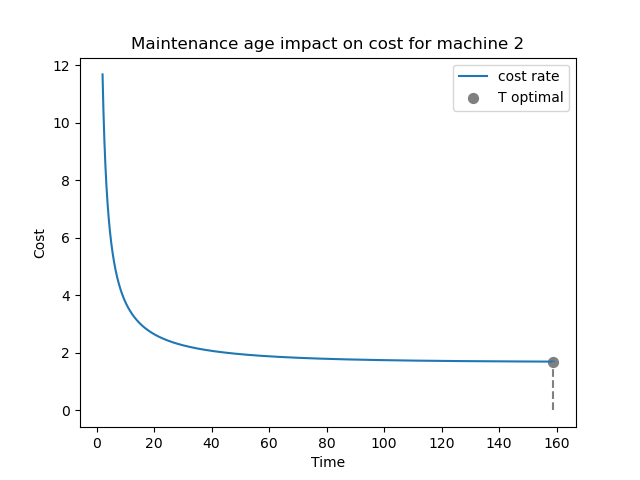
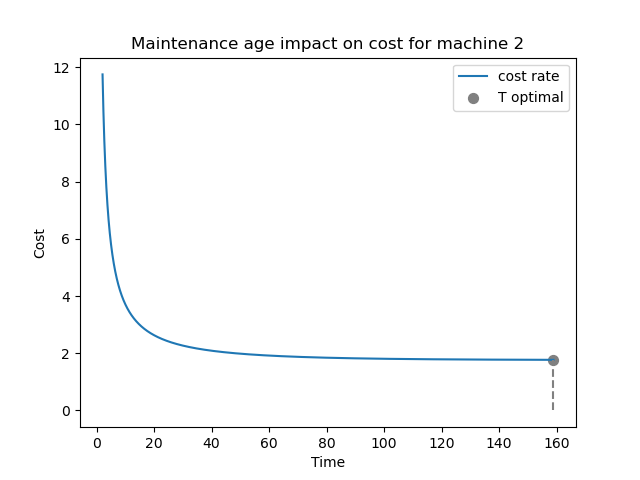
added comments and full simulation config

diff --git a/s4917340-Tool.py b/s4917340-Tool.py
@@ -6,7 +6,6 @@ import sys
 import seaborn as sns
 import matplotlib.pyplot as plt
 import itertools
-import time
 import warnings
 warnings.filterwarnings('ignore') 
 
@@ -17,16 +16,21 @@ plot_path = os.path.join(root_path, 'plot')
 # pd.set_option('display.max_rows', None)
 
 def data_preparation(machine_data : pd.DataFrame):
+    # create an cersored column based on the event column
     machine_data['Censored'] = machine_data['Event'].map({'failure': 'No', 'PM':'Yes'})
+    # Calculate the duration by time difference of a time compared with the time in the previous row
+    # fill the nan values (from the first row) with its time value 
     machine_data['Duration'] = machine_data['Time'].diff().fillna(machine_data['Time'].iloc[0])
 
     # foreach 0 (due to duplicated durations) replace with nan to fill the blank cells with the duration above it
     machine_data['Duration'] = machine_data['Duration'].replace(0, np.nan).ffill()
-    
+    # sort the durations from low to high 
     machine_data = machine_data.sort_values(by='Duration', ascending=True)
     
+    # sort duplicated durations such that PM events comes before the failure events
     # source: https://stackoverflow.com/questions/67845362/sort-pandas-df-subset-of-rows-within-a-group-by-specific-column 
     # source: https://sparkbyexamples.com/pandas/pandas-groupby-sort-within-groups/
+    # group the data by duration and sort each group of durations from high to low and reset the index. 
     machine_data = machine_data.groupby('Duration', group_keys=True).apply(lambda x: x.sort_values(by=['Event'], ascending=False))
     machine_data = machine_data.reset_index(drop=True)
 
@@ -36,11 +40,16 @@ def data_preparation(machine_data : pd.DataFrame):
 def update_probabilities(prepared_data : pd.DataFrame):
     for index, row in prepared_data.iterrows():
         if row['Event'] == 'PM':
+            # get the remaining rows underneath the current row
             remaining_rows = prepared_data.iloc[index+1:]
+            # get the number of remaining rows
             num_remaining_rows = len(remaining_rows)
+            # get the probability to distribute over the remaining rows
             prob_to_distribute = row['Probability']
+            # spread the probability to distribute evenly over the number of remaining rows 
             prob_to_distribute_per_row = prob_to_distribute / num_remaining_rows
             remaining_rows.loc[:, 'Probability'] += prob_to_distribute_per_row
+            # set the probability of the current row to zero
             prepared_data.at[index, 'Probability'] = 0
     
     return prepared_data
@@ -53,16 +62,27 @@ def create_kaplanmeier_data(prepared_data : pd.DataFrame):
     prepared_data = update_probabilities(prepared_data)
 
     # 3. Merge duplicated, failure (censored == No) durations 
+    # group data by duration and sum the probability for each group 
     grouped = prepared_data.groupby('Duration').agg({'Probability': 'sum'}).reset_index()
+
+    # map the summed probabilities of the duration to an summed probability column
     prepared_data['summed_prob'] = prepared_data['Duration'].map(grouped.set_index('Duration')['Probability'])
+
+    # create an filter taking all the duplicated durations that are associated with an failure, and use this filter to change the current probablity to the summed probability
     mask = (prepared_data.duplicated('Duration', keep=False)) & (prepared_data['Event'] == 'failure') #mark all duplicates
     prepared_data.loc[mask, 'Probability'] = prepared_data.loc[mask, 'summed_prob']
+
+    # create an filter taking the duplicated durations except the first one that are associated with an failure,and use this filter to change other durations to 0 
     mask2 = (prepared_data.duplicated('Duration')) & (prepared_data['Event'] == 'failure') # mark all dups besides the first one
     prepared_data.loc[mask2, 'Probability'] = 0
+
+    # remove the summed probability column 
     prepared_data.drop(columns='summed_prob', axis=1, inplace=True)
 
     # 4. Calculate the reliability function for each duration 
+    # start with an reliability of 1 (100%)
     reliability = 1
+    # foreach row in data, check if event is an failure, if so decrement the proability of the reliablity and set it as the new reliablity for that row
     for index, row in prepared_data.iterrows():
         if row['Event'] == 'failure':
             reliability -= row['Probability']
@@ -89,11 +109,12 @@ def plot_kaplanmeier_estimation(data, machine_name):
 #Weibull distribution fitting
 def fit_weibull_distribution(prepared_data : pd.DataFrame):
     # 1. Create a variable with the search ranges for lambda and kappa
-    l_range = np.linspace(start=1, stop=35, num=10)
-    k_range = np.linspace(start=0.1, stop=3.5, num=10)
+    l_range = np.linspace(start=1, stop=35, num=35)
+    k_range = np.linspace(start=0.1, stop=3.5, num=35)
 
     # 2. Create a dataframe which will contain your likelihood data
-    #source: https://stackoverflow.com/questions/1208118/using-numpy-to-build-an-array-of-all-combinations-of-two-arrays 
+    # Create pairs foreach Kappa and Lambda value
+    # source: https://stackoverflow.com/questions/1208118/using-numpy-to-build-an-array-of-all-combinations-of-two-arrays 
     pairs = np.array(list(itertools.product(l_range, k_range)))
     df_weibull = pd.DataFrame(columns=['Lambda', 'Kappa'], data=pairs)
 
@@ -195,7 +216,7 @@ def CBM_data_preperation(condition_data : pd.DataFrame):
     return condition_data
 
 def CBM_create_simulations(CBM_prepared_data : pd.DataFrame, failure_level, threshold):
-    n_of_simulations = 1000
+    n_of_simulations = 10000
     simulation_data = pd.DataFrame()
     for i in range(n_of_simulations):
         state = 0
@@ -211,23 +232,28 @@ def CBM_create_simulations(CBM_prepared_data : pd.DataFrame, failure_level, thre
             if state > threshold:
                 simulation_data.at[i, 'Duration'] = time
                 simulation_data.at[i, 'Event'] = 'PM'
-                break
-
+                break     
     return simulation_data
 
 def CBM_analyse_costs(sample_data : pd.DataFrame, PM_cost, CM_cost):
+    # calculate the mean cycle length by taking the mean of all durations
     mean_cycle_length = sample_data['Duration'].mean()
+    # Get the number of failure events
     failure_cycles = len(sample_data[sample_data['Event'] == 'failure'])
+    # Get the number of Preventive maintenance events
     pm_cycles = len(sample_data[sample_data['Event'] == 'PM'])
+    # Get the total number of events
     simulated_cycles = len(sample_data)
+    # Calculate the mean cost per cycle based on PM cost * PM events + CM cost * CM events
     mean_cost_per_cycle = PM_cost * (pm_cycles/simulated_cycles) + CM_cost * (failure_cycles/simulated_cycles)
+    # Calculate the cost rate
     cost_rate = mean_cost_per_cycle / mean_cycle_length
     return cost_rate
 
 def CBM_create_cost_data(prepared_condition_data : pd.DataFrame, PM_cost, CM_cost, failure_level, machine_name):
     CBM_cost_data = pd.DataFrame()
     thresholds = np.arange(0, 51)
-    percentiles = np.percentile(thresholds, [0, 20, 40, 60, 80, 100]).tolist()
+    percentiles = np.percentile(thresholds, np.arange(0, 100)).tolist()
     for threshold in thresholds:
         if threshold in percentiles:
             percentage = "{:.0%}".format(threshold / thresholds.max())
@@ -235,23 +261,17 @@ def CBM_create_cost_data(prepared_condition_data : pd.DataFrame, PM_cost, CM_cos
         sample_data = CBM_create_simulations(prepared_condition_data, failure_level, threshold)
         cost_rate = CBM_analyse_costs(sample_data, PM_cost, CM_cost)
         CBM_cost_data.at[threshold, 'cost_rate'] = cost_rate
-
     # get the optimal maintenance threshold & cost rate
     optimal = CBM_cost_data[CBM_cost_data['cost_rate'] == CBM_cost_data['cost_rate'].min()]
 
     N = 10
     fig, ax = plt.subplots()
-    # CBM_cost_data[N:].plot(
-    #     title=f'Cost rate for different maintenance thresholds machine {machine_name}', 
-    #     xlim=(N,thresholds[-1]), 
-    #     ylim=(0, math.ceil(CBM_cost_data[N:]['cost_rate'].max())),
-    #     ax=ax
-    # )
-
-    CBM_cost_data.plot(
+    CBM_cost_data[N:].plot(
         title=f'Cost rate for different maintenance thresholds machine {machine_name}', 
+        xlim=(N,thresholds[-1]), 
+        ylim=(0, math.ceil(CBM_cost_data[N:]['cost_rate'].max())),
         ax=ax
-    )    
+    )   
 
     ax.scatter(x=optimal.index, y=optimal['cost_rate'], marker='.', color='gray', s=200)
     ax.vlines(x=optimal.index, ymin=0, ymax=optimal['cost_rate'], color='gray', linestyles='dashed')
@@ -277,20 +297,23 @@ def run_analysis(machine_name, PM_cost, CM_cost, analyse_CBM = 'no'):
     weibull_data = create_weibull_curve_data(prepared_data, lamb_val, kap_val)
     MTBF_weibull = meantimebetweenfailure_weibull(lamb_val, kap_val) 
     
+    print(f'Best lambda = {lamb_val} and kappa = {kap_val} values for machine {machine_name}') 
     print('The MTBF-Kaplan Meier is:', MTBF_KM)
     print('The MTBF-Weibull is:', MTBF_weibull)
+    print('Cost of raw corrective maintenance is', CM_cost/MTBF_weibull)
 
     # Visualization
     visualization(KM_data, weibull_data, machine_name)
 
     # # Age-based maintenance optimization
+    print('\nStart with the age-based maintenance optimization')
     best_age, best_cost_rate = create_cost_data(prepared_data, lamb_val, kap_val, PM_cost, CM_cost, machine_name)
     print('The optimal maintenance age is', best_age)
     print('The best cost rate is', best_cost_rate)
 
+    # Condition-based maintenance
     if analyse_CBM == 'yes':
         print('\nStart with the Condition-based maintenance analysis')
-        # Condition-based maintenance
         condition_data = pd.read_csv(os.path.join(data_path, f'{student_nr}-Machine-{machine_name}-condition-data.csv'))
         prepared_condition_data = CBM_data_preperation(condition_data)
         
@@ -323,8 +346,7 @@ def run():
             CM_cost = int(input('What is the CM cost?: '))
             if machine_name == 3:
                 analyse_CBM = input('Do you want to include a condition-based maintenance analysis for machine 3? (yes/no) ').lower()
-            print(f'Oke, let start with the analysis using these input values')
-            time.sleep(1)
+            print(f'Oke, let start with the analysis of machine {machine_name} using these input values')
             run_analysis(machine_name, PM_cost, CM_cost, analyse_CBM)
             print('Analysis done! See the plot folder for graphs. \n')
         except ValueError:
